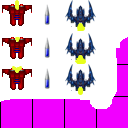
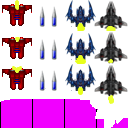
Few updates

diff --git a/src/ser/main/Game.java b/src/ser/main/Game.java
@@ -73,7 +73,7 @@ public class Game extends Canvas implements Runnable {
 			spriteSheet = loader.loadImage("/sheet.png");
 			background = loader.loadImage("/background.gif");
 			background1 = loader.loadImage("/background.gif");
-			player = loader.loadImage("/space_ship2.gif");
+			player = loader.loadImage("/space.gif");
 
 		} catch (IOException e) {
 			e.printStackTrace();
